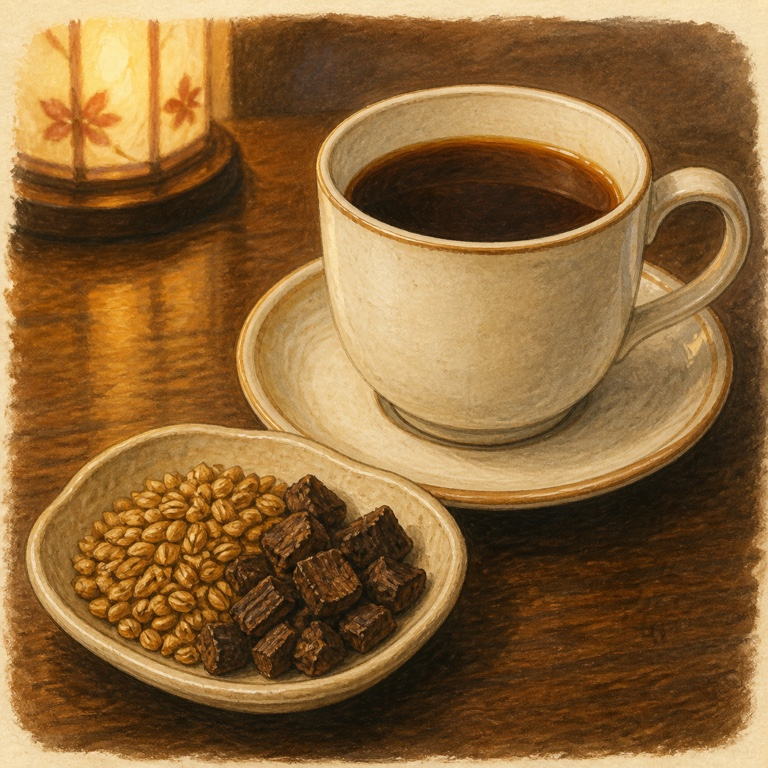
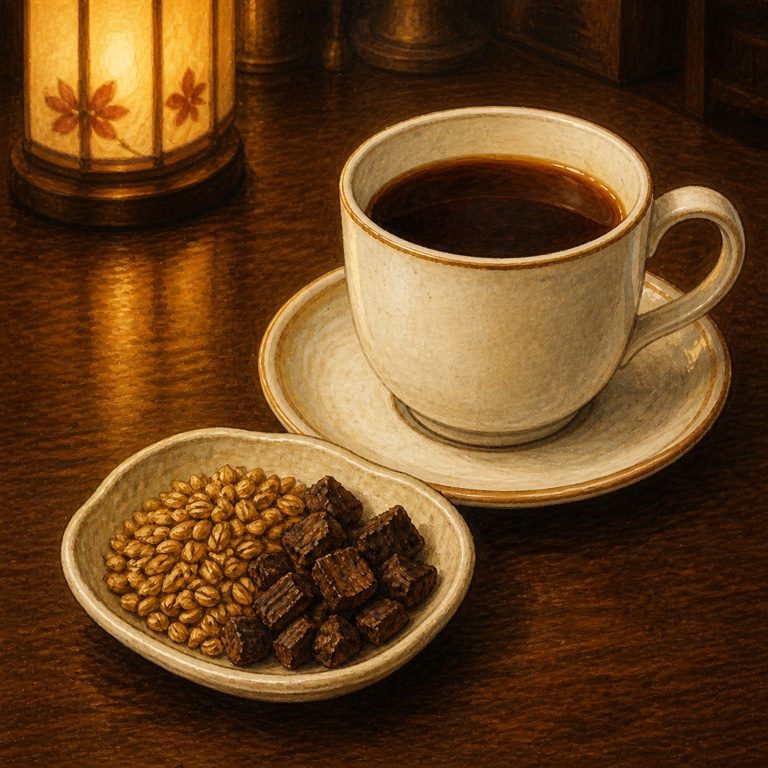
fix: unify cafe card artwork backgrounds

diff --git a/src/features/cafe_gacha/test_catalog.py b/src/features/cafe_gacha/test_catalog.py
@@ -132,6 +132,57 @@ def test_every_catalog_image_exists_and_is_square() -> None:
             assert image.width == image.height
 
 
+def test_catalog_images_do_not_have_a_pale_outer_matte() -> None:
+    from PIL import Image
+
+    asset_dir = Path(__file__).parent / "assets"
+    for card in CARDS:
+        path = asset_dir / card.image_filename
+        with Image.open(path) as source:
+            image = source.convert("RGB")
+            band = max(1, image.width // 32)
+            border_pixels = [
+                *image.crop((0, 0, image.width, band)).getdata(),
+                *image.crop(
+                    (0, image.height - band, image.width, image.height)
+                ).getdata(),
+                *image.crop((0, band, band, image.height - band)).getdata(),
+                *image.crop(
+                    (image.width - band, band, image.width, image.height - band)
+                ).getdata(),
+            ]
+            white_ratio = sum(
+                red >= 240 and green >= 240 and blue >= 240
+                for red, green, blue in border_pixels
+            ) / len(border_pixels)
+            corner = max(1, image.width // 8)
+            corner_pixels = [
+                *image.crop((0, 0, corner, corner)).getdata(),
+                *image.crop((image.width - corner, 0, image.width, corner)).getdata(),
+                *image.crop((0, image.height - corner, corner, image.height)).getdata(),
+                *image.crop(
+                    (
+                        image.width - corner,
+                        image.height - corner,
+                        image.width,
+                        image.height,
+                    )
+                ).getdata(),
+            ]
+            corner_brightness = sum(
+                (red + green + blue) / 3 for red, green, blue in corner_pixels
+            ) / len(corner_pixels)
+
+        assert white_ratio < 0.1, (
+            f"{card.image_filename} has a white outer matte "
+            f"({white_ratio:.1%} of border pixels)"
+        )
+        assert corner_brightness < 125, (
+            f"{card.image_filename} has a pale outer matte "
+            f"(mean corner brightness {corner_brightness:.1f})"
+        )
+
+
 def test_every_card_guarantees_draw_xp() -> None:
     assert all(card.draw_reward_xp > PAID_DRAW_COST_XP for card in CARDS)
     assert (
